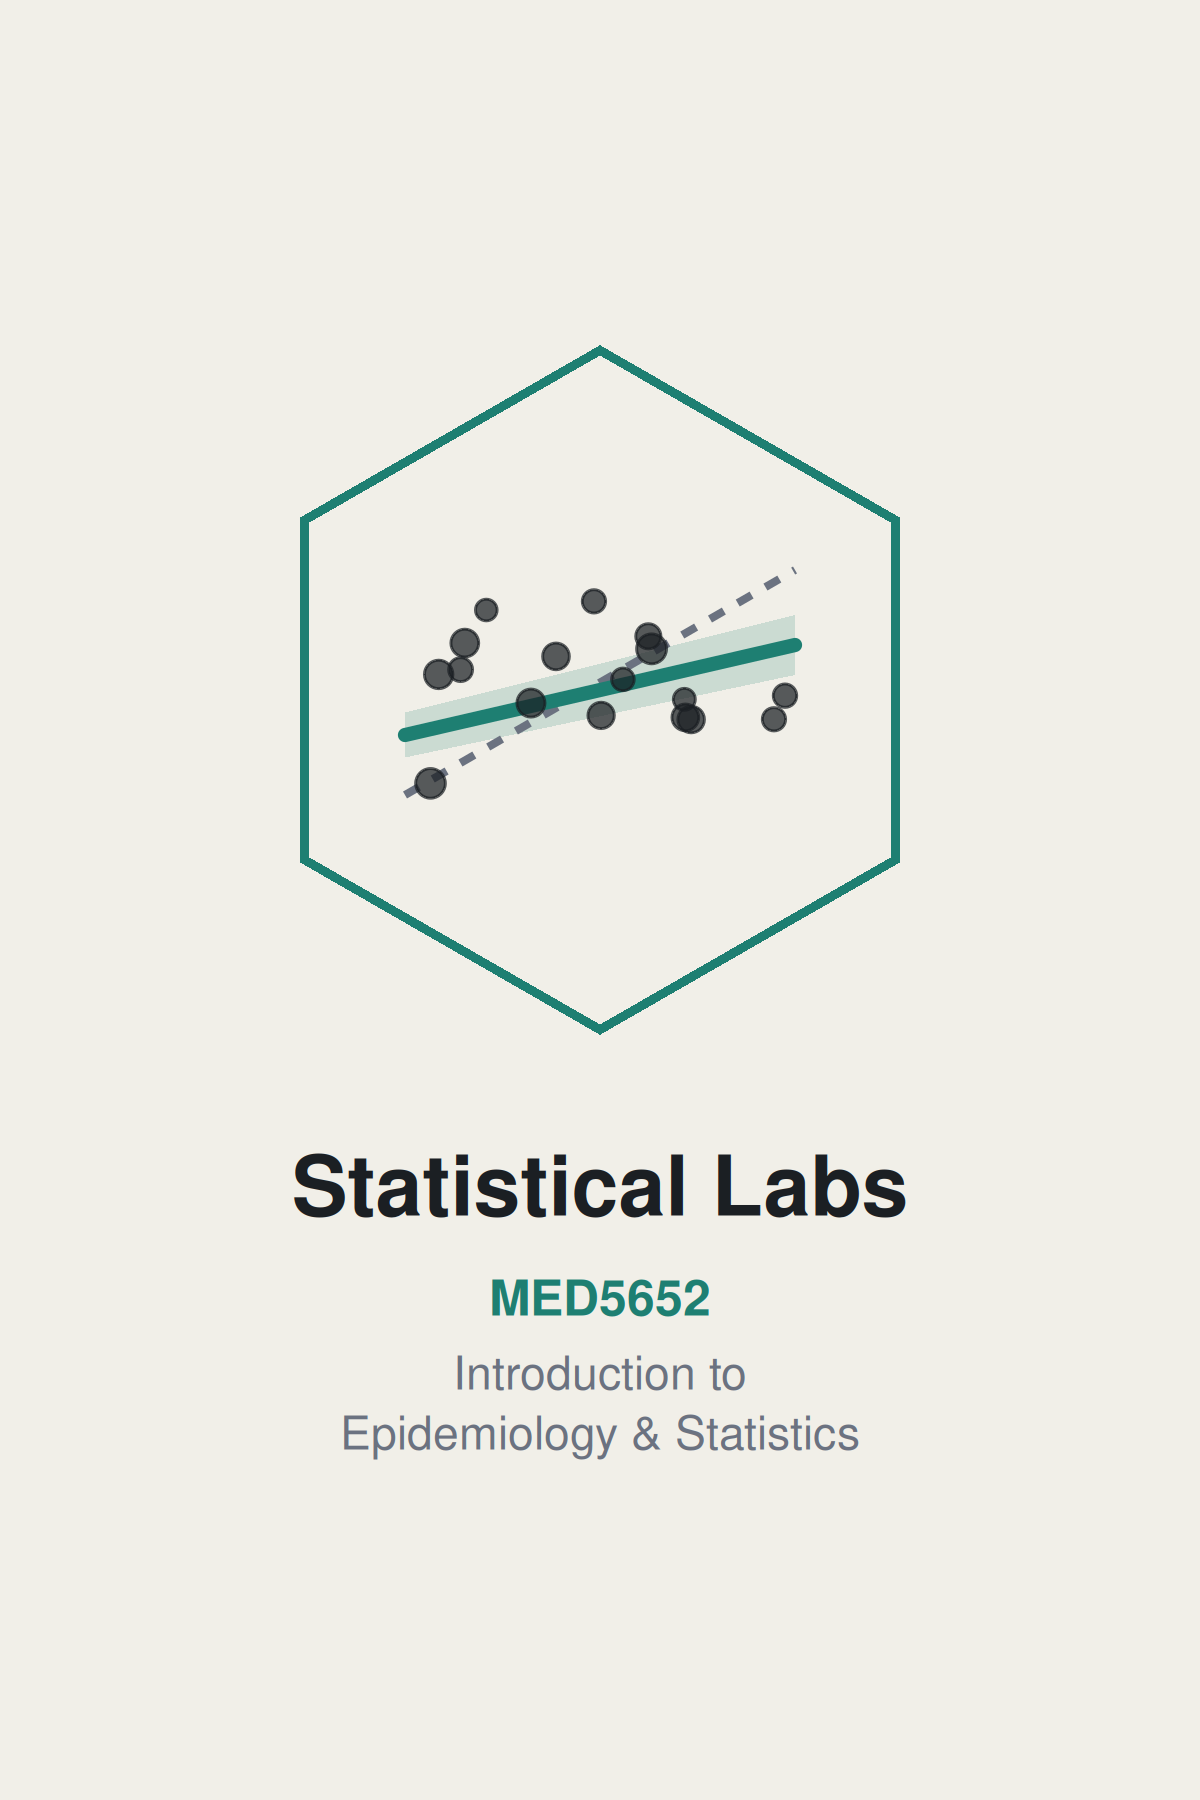
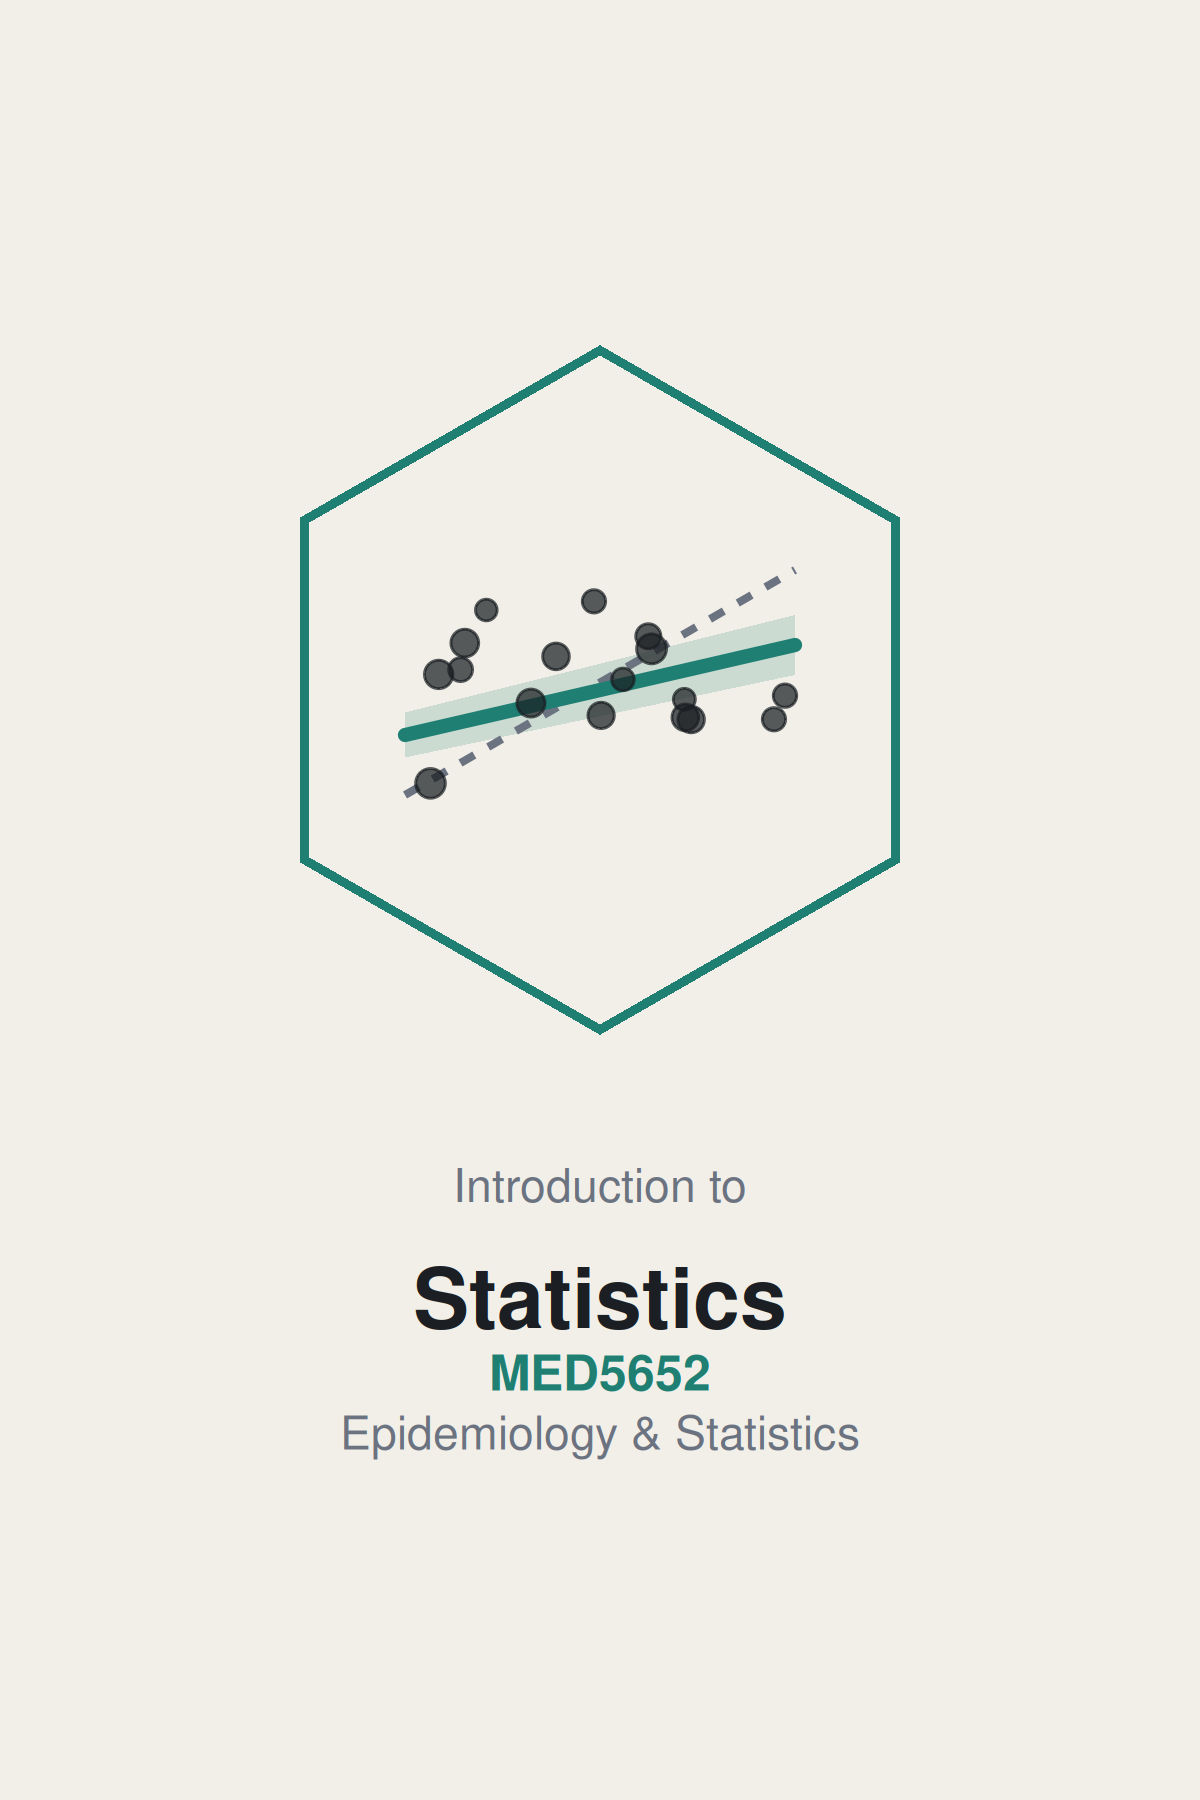
Rename book to Introduction to Statistics; deck-wide slide animation
Book title changed from "IES Statistical Labs" (_quarto.yml, cover
image regenerated via make-cover.R, README, index.qmd's alt text).
The cover's title text is now two-tier ("Introduction to" over
"Statistics") since the full title doesn't fit the hexagon at one
size; the subtitle drops its own "Introduction to" line, which would
otherwise duplicate it.

seminars/_quarto.yml: incremental: true, transition: slide, and
auto-animate: true, applying to every deck.

Changed region(s): [[0.2467, 0.6222, 0.7708, 0.7778]]

diff --git a/README.md b/README.md
@@ -1,4 +1,4 @@
-# MED5652 Statistical Labs
+# MED5652 Introduction to Statistics
 
 A [Quarto](https://quarto.org) ebook for the R lab MED5652 Introduction to Epidemiology and Statistics. It contains two preparatory chapters and five weekly chapters. The repo also holds the course's seminar slide decks, built in `seminars/` as a separate Quarto project (`revealjs`). The published site is at <https://fredho-42.github.io/MED5652-IES-stats/>, book and slides together.
 
